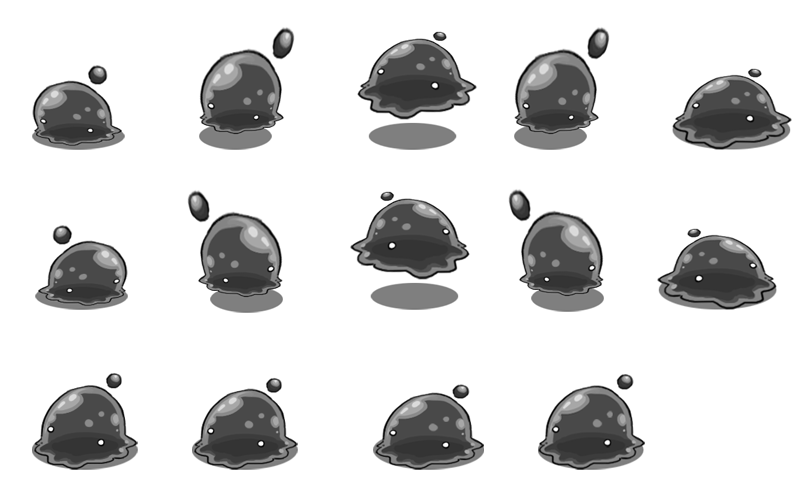
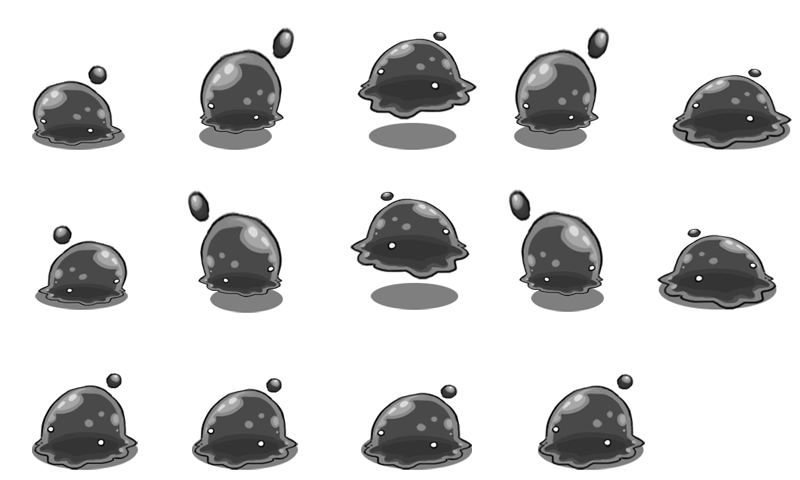
Neuer Sprite

Changed region(s): [[0.4375, 0.7812, 0.625, 1.0]]

diff --git a/StarbucksPrincess Proto/js/Game.js b/StarbucksPrincess Proto/js/Game.js
@@ -49,8 +49,9 @@ SBP.Game.prototype = {
     this.game.camera.follow(this.player);
     this.player.body.collideWorldBounds = true; //Kollision des Spielers
 	
-	this.player.animations.add('left', [0,1,2,3], 10, true); // Lauf-Animation
-	this.player.animations.add('right', [5,6,7,8], 10, true);
+	this.player.animations.add('left', [0,1,2,3,4], 10, true); // Lauf-Animation
+	this.player.animations.add('right', [5,6,7,8,9], 10, true);
+	this.player.animations.add('stay', [10,11,12,13], 10, true);
 	this.cursors = this.game.input.keyboard.createCursorKeys(); //Pfeiltasten aktivieren
 	upKey = this.game.input.keyboard.addKey(Phaser.Keyboard.UP);
     downKey = this.game.input.keyboard.addKey(Phaser.Keyboard.DOWN);
@@ -139,7 +140,7 @@ SBP.Game.prototype = {
     else
     {
         //  Stand still
-        this.player.animations.stop();
+        this.player.animations.play('stay');
         //this.player.frame = 0;
     }
   },

diff --git a/StarbucksPrincess Proto/js/Preload.js b/StarbucksPrincess Proto/js/Preload.js
@@ -15,7 +15,7 @@ SBP.Preload.prototype = {
     this.load.image('gameTiles', 'assets/tileset/tilemap.png');
  	//Bohne sprite
     this.load.image('Coffeebean', 'assets/images/bohne.png');
-    this.load.spritesheet('player', 'assets/dude.png', 32, 48);
+    this.load.spritesheet('player', 'assets/slime.png', 160, 160);
   
   },
  
